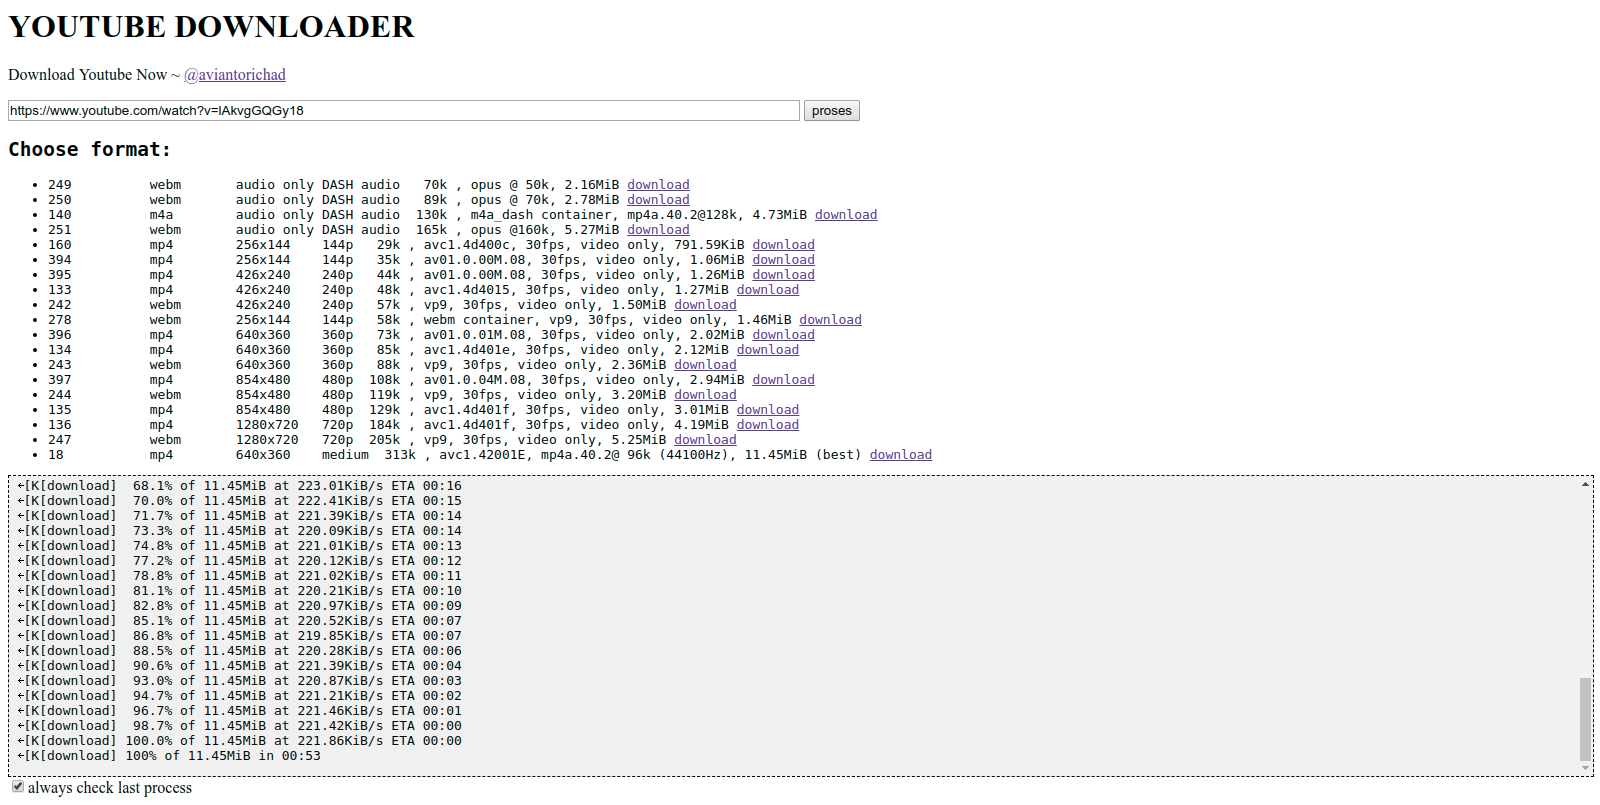
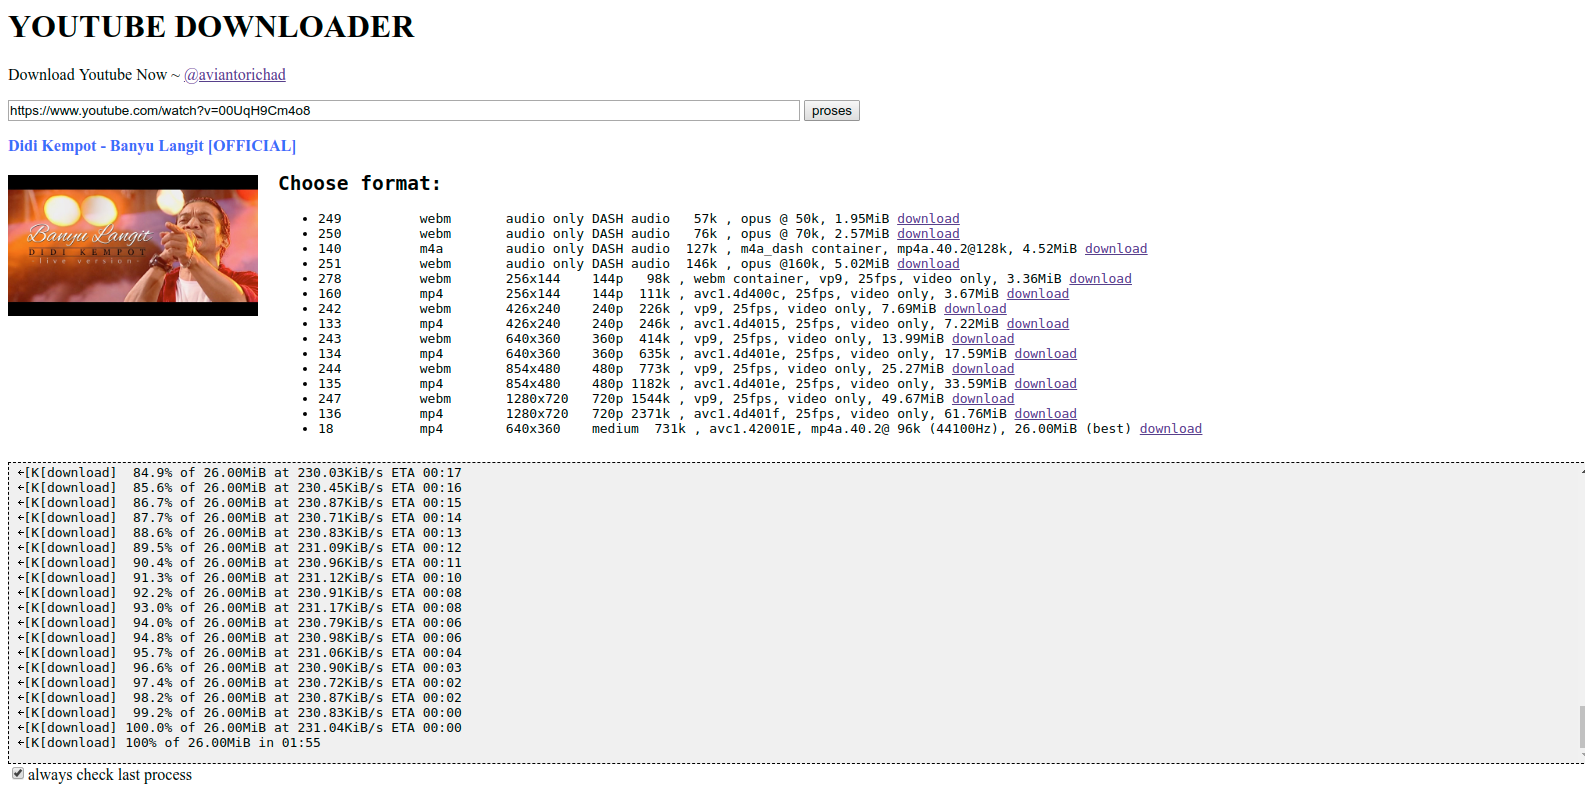
add image and title info

diff --git a/proses.php b/proses.php
@@ -5,10 +5,30 @@ if (isset($_REQUEST['proses'])) {
     case "cek":
       // menjalankan youtube-dl
       if (isset($_REQUEST['url'])) {
+        // $url = "https://www.youtube.com/watch?v=A6_NsdY7FKQ";
         $url = $_REQUEST['url'];
+        //ambil title
+        $cmd1 = "youtube-dl --get-title " . $url;
+        exec($cmd1, $output1, $exitcode1);
+        if ($exitcode1 == 0) {
+          $title = "<div style='display:block;color:blue;font-weight:bold;'>$output1[0]</div>";
+        } else {
+          $title = "";
+        }
+        //ambil thumbnail
+        $cmd2 = "youtube-dl --get-thumbnail " . $url;
+        exec($cmd2, $output2, $exitcode2);
+        if ($exitcode2 == 0) {
+          $image = "<image src='$output2[0]' align='left' style='margin-right:20px;margin-top:20px;display:inline-block;width:250px;' />";
+        } else {
+          $image = "";
+        }
+        // cek file
         $cmd = "youtube-dl -o '%(title)s.%(ext)s' -F " . $url;
         exec($cmd, $output, $exitcode);
-        echo "<pre>";
+        echo $title;
+        echo $image;
+        echo "<pre style='display:inline-block;width:50%;margin-top:0;'>";
         if ($exitcode == 0) {
           echo "<h2>Choose format:</h2>";
           echo "<ul>";

diff --git a/index.php b/index.php
@@ -23,7 +23,7 @@
       <button type="button" id="submit">proses</button>
     </form>
 
-    <div id="result"></div>
+    <div id="result" style="margin-top:20px;"></div>
     <div id="result2"></div>
     <div id="result3"></div>
 
